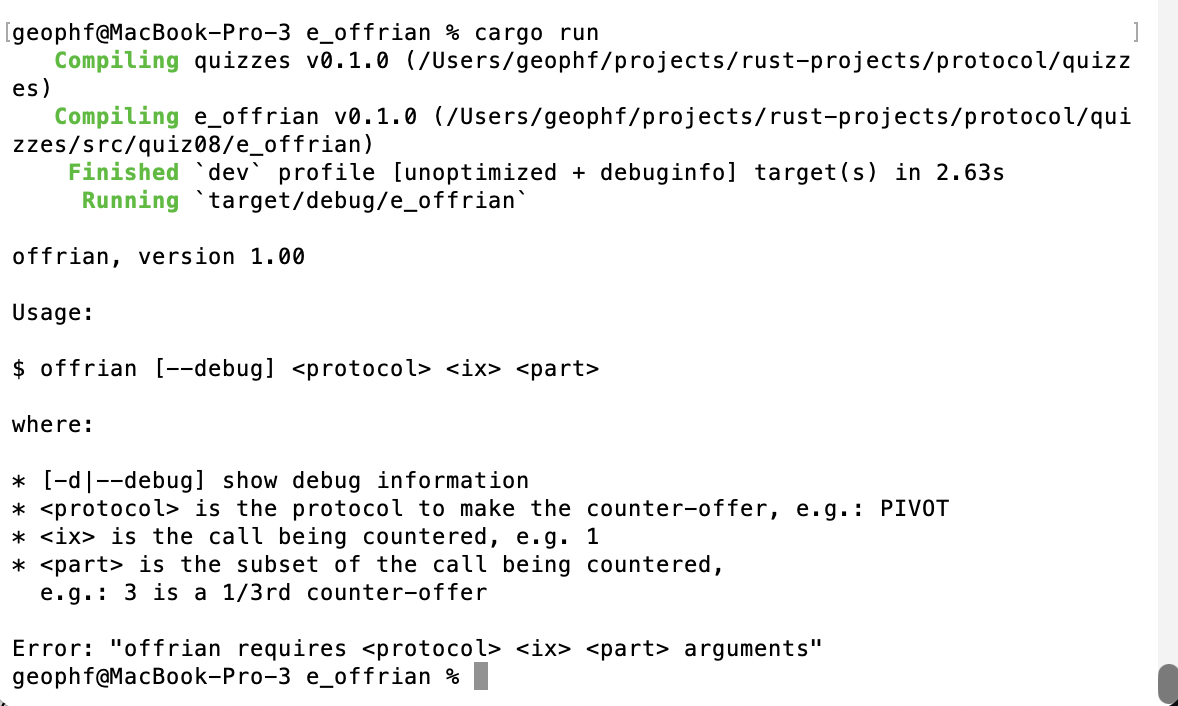
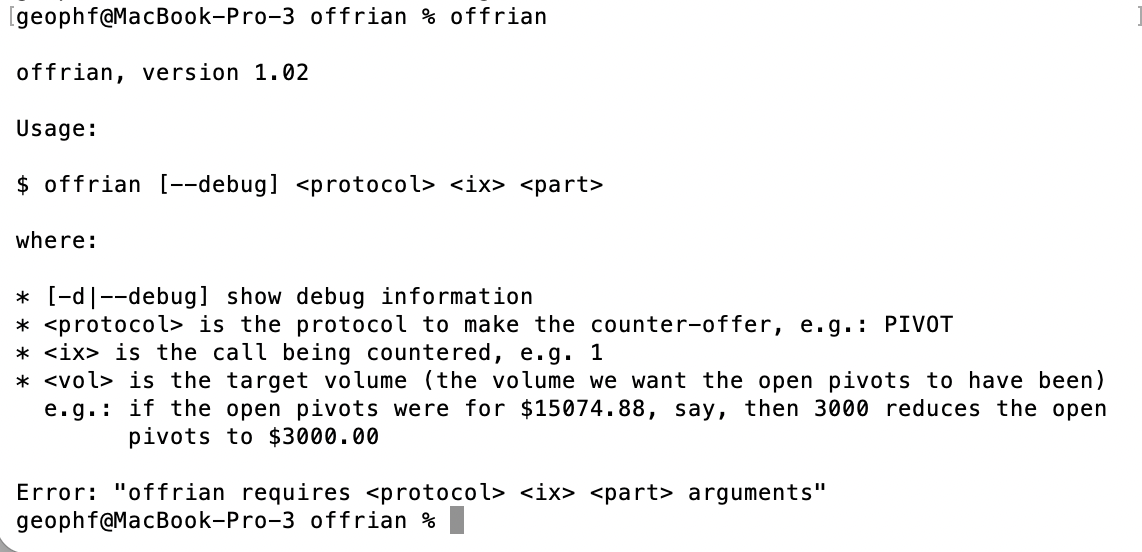
updated offrian documentation

diff --git a/dapps/offrian/README.md b/dapps/offrian/README.md
@@ -12,15 +12,14 @@ offrian, version 1.01
 
 Usage:
 
-$ offrian [--debug] <protocol> <ix> <part>
+$ offrian [--debug] <protocol> <ix> <target>
 
 where:
 
 * [-d|--debug] show debug information
 * <protocol> is the protocol to make the counter-offer, e.g.: PIVOT
 * <ix> is the call being countered, e.g. 1
-* <part> is the subset of the call being countered,
-  e.g.: 3 is a 1/3rd counter-offer
+* <target> target volume for the new pivot (e.g. 1000)
 ```
 
 ### e.g.
@@ -29,7 +28,13 @@ where:
 
 depending on the call will get the following output:
 
-![`offrian` output](../../quizzes/src/quiz08/e_offrian/imgs/01b-runoff.png)
+### Rejected offer
+
+![`offrian` output](../../quizzes/src/quiz08/e_offrian/imgs/01b-rejected.png)
+
+### Accepted offer
+
+![`offrian` output](../../quizzes/src/quiz08/e_offrian/imgs/01c-runoff.png)
 
 * [src](../../quizzes/src/quiz08/e_offrian/mod.rs)
 
@@ -37,6 +42,7 @@ depending on the call will get the following output:
 
 ## Revisions
 
+* 1.02, 2026-06-24: changed partition to target volume
 * 1.01, 2026-06-19 (again): added tests and corrected formulæ
 * 1.00, 2026-06-19: release
 * 0.90, 2026-06-16: pre-release, reading calls